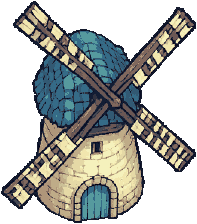
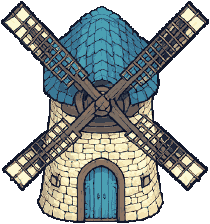
feat(assets): generate orthographic building material kit

diff --git a/packages/engine/src/tiny-swords-catalog.ts b/packages/engine/src/tiny-swords-catalog.ts
@@ -336,7 +336,7 @@ const LINDOCARA_LAB_EDITOR_ASSETS = [
     LINDOCARA_BUILDING_ASSET_IDS.house,
     "/assets/lindocara/hd2d/buildings/house-front.png",
     ["house", "habitable"],
-    177,
+    199,
     198,
     [-1, 0, 1].flatMap((row) => [-1, 0, 1].map((col) => ({ col, row }))),
     { x: -88, y: -136, width: 176, height: 136 },
@@ -345,7 +345,7 @@ const LINDOCARA_LAB_EDITOR_ASSETS = [
     LINDOCARA_BUILDING_ASSET_IDS.stoneTower,
     "/assets/lindocara/hd2d/buildings/tower-front.png",
     ["tower", "stone", "habitable"],
-    177,
+    159,
     220,
     [-1, 0, 1].flatMap((row) => [-1, 0, 1].map((col) => ({ col, row }))),
     { x: -64, y: -128, width: 128, height: 128 },
@@ -354,7 +354,7 @@ const LINDOCARA_LAB_EDITOR_ASSETS = [
     LINDOCARA_BUILDING_ASSET_IDS.archeryGuild,
     "/assets/lindocara/hd2d/buildings/archery-front.png",
     ["archery", "guild", "habitable"],
-    192,
+    225,
     202,
     [-1, 0, 1].flatMap((row) => [-1, 0, 1].map((col) => ({ col, row }))),
     { x: -96, y: -144, width: 192, height: 144 },
@@ -363,7 +363,7 @@ const LINDOCARA_LAB_EDITOR_ASSETS = [
     LINDOCARA_BUILDING_ASSET_IDS.barracks,
     "/assets/lindocara/hd2d/buildings/barracks-front.png",
     ["barracks", "habitable"],
-    198,
+    267,
     206,
     [-1, 0, 1].flatMap((row) => [-1, 0, 1].map((col) => ({ col, row }))),
     { x: -96, y: -152, width: 192, height: 152 },
@@ -372,7 +372,7 @@ const LINDOCARA_LAB_EDITOR_ASSETS = [
     LINDOCARA_BUILDING_ASSET_IDS.windmill,
     "/assets/lindocara/hd2d/buildings/windmill-front.png",
     ["tower", "windmill", "mill", "habitable"],
-    197,
+    210,
     224,
     [-1, 0, 1].flatMap((row) => [-1, 0, 1].map((col) => ({ col, row }))),
     { x: -88, y: -128, width: 176, height: 128 },

diff --git a/apps/lab/scripts/process-building-v3.py b/apps/lab/scripts/process-building-v3.py
@@ -1,0 +1,66 @@
+"""Normalise le lot v3 de façades et de matières pour le renderer HD-2D.
+
+Les façades passent par le pipeline sprite historique du Lab. Les matières restent opaques :
+leur bleu nuit est le mortier entre les pierres, pas un fond à détourer.
+"""
+
+from pathlib import Path
+import subprocess
+import sys
+
+from PIL import Image, ImageChops
+
+
+ROOT = Path(__file__).resolve().parents[3]
+RAW = ROOT / "apps/lab/assets/generated/buildings-v3"
+OUT = ROOT / "packages/client/public/assets/lindocara/hd2d/buildings"
+SPRITE = ROOT / "apps/lab/scripts/sprite.py"
+
+FACADES = {
+    "house": 196,
+    "tower": 218,
+    "archery": 200,
+    "barracks": 204,
+    "windmill": 222,
+}
+
+
+def process_facades() -> None:
+    for name, height in FACADES.items():
+        subprocess.run(
+            [
+                sys.executable,
+                str(SPRITE),
+                str(RAW / f"{name}-front-raw.png"),
+                str(OUT / f"{name}-front.png"),
+                str(height),
+                "18",
+            ],
+            check=True,
+        )
+
+
+def material_bbox(image: Image.Image) -> tuple[int, int, int, int]:
+    rgb = image.convert("RGB")
+    background = Image.new("RGB", rgb.size, rgb.getpixel((0, 0)))
+    difference = ImageChops.difference(rgb, background).convert("L")
+    mask = difference.point(lambda value: 255 if value > 18 else 0)
+    bbox = mask.getbbox()
+    if bbox is None:
+        raise RuntimeError("generated material contains no pixels distinct from its background")
+    return bbox
+
+
+def process_material(name: str) -> None:
+    source = Image.open(RAW / f"{name}-raw.png").convert("RGB")
+    sample = source.crop(material_bbox(source)).resize((96, 96), Image.Resampling.BOX)
+    sample = sample.quantize(colors=18, method=Image.Quantize.MEDIANCUT).convert("RGB")
+    sample.save(OUT / f"{name}.png")
+    print(f"{OUT / f'{name}.png'}  96x96")
+
+
+if __name__ == "__main__":
+    OUT.mkdir(parents=True, exist_ok=True)
+    process_facades()
+    process_material("cream-stone")
+    process_material("blue-stone")
